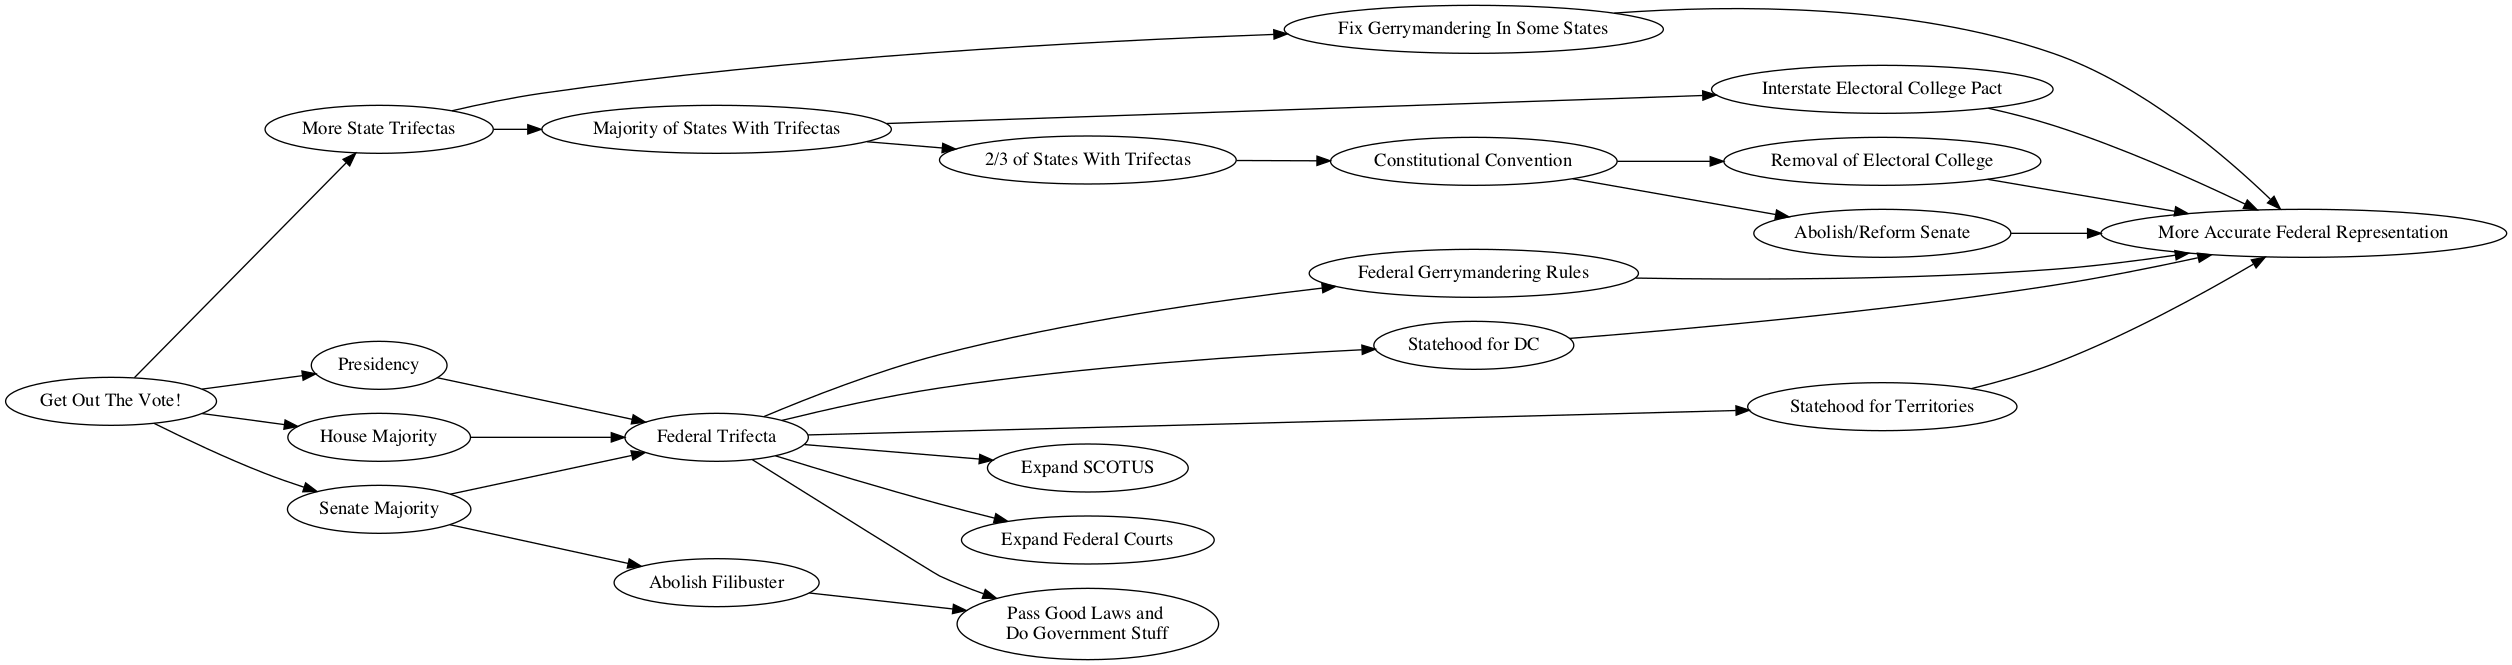
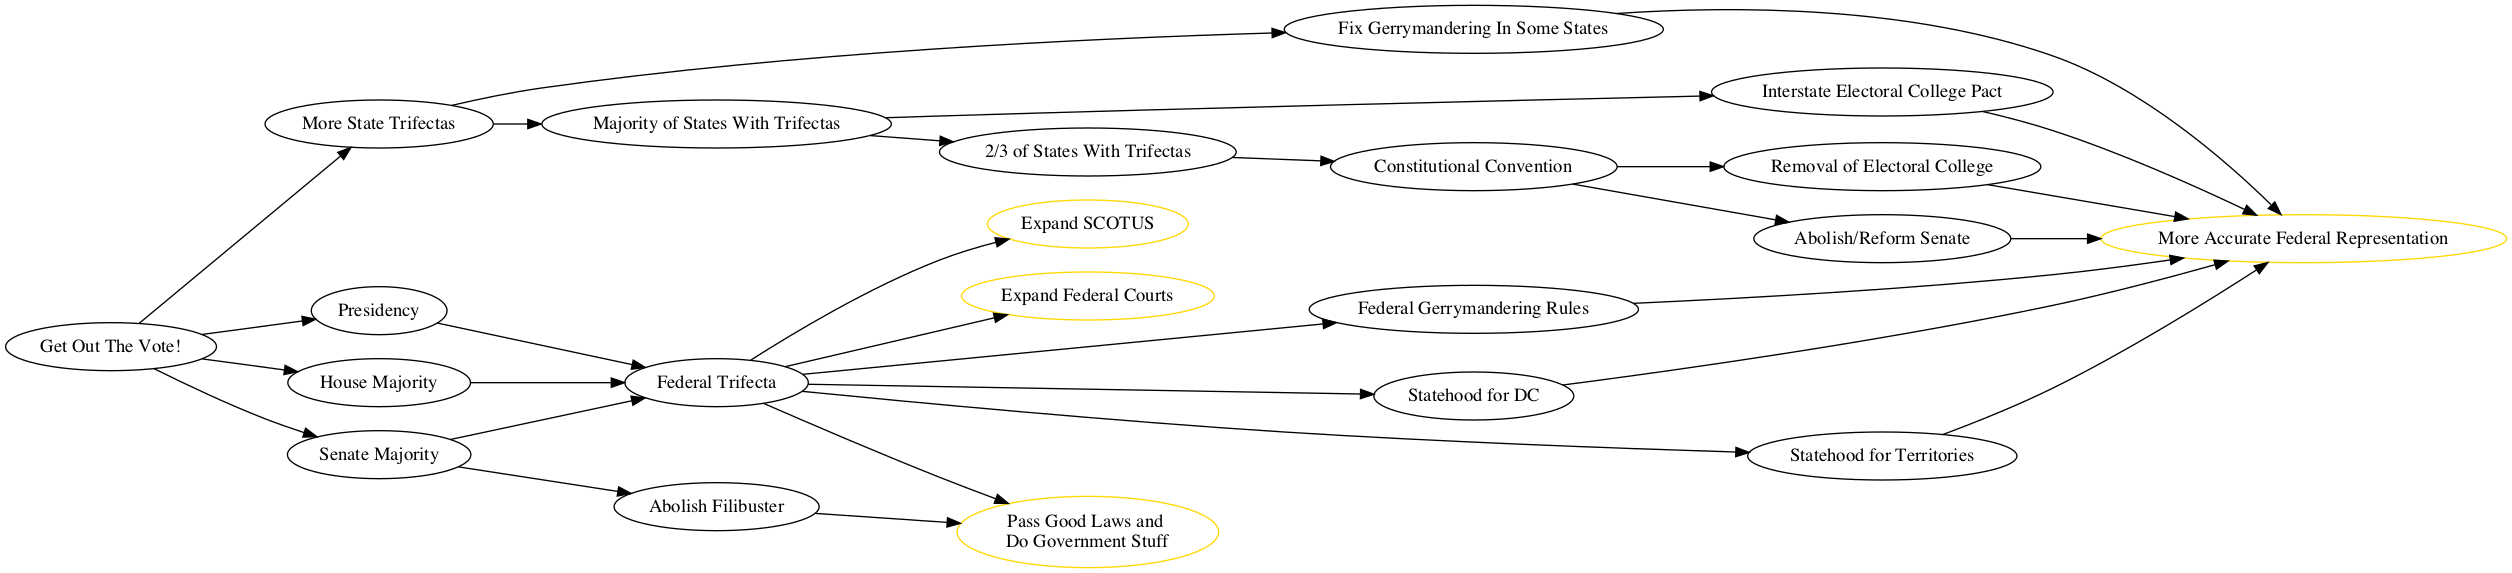
hightlight goals

diff --git a/code.rb b/code.rb
@@ -7,6 +7,15 @@ g[:truecolor => true, :bgcolor => "transparent", :rankdir => "LR"]
 
 
 # goals
+goals = [
+  representation = g.add_node( "More Accurate Federal Representation" ),
+  expand_scotus = g.add_node( "Expand SCOTUS" ),
+  eppand_federal = g.add_node( "Expand Federal Courts" ),
+  legislation = g.add_node( "Pass Good Laws and \nDo Government Stuff" ),
+  representation = g.add_node( "More Accurate Federal Representation" ),
+]
+goals.each{|g| g[:color => 'gold']}
+
 gerrymandering_fed = g.add_node("Federal Gerrymandering Rules")
 gerrymandering_state = g.add_node("Fix Gerrymandering In Some States")
 ec_pact = g.add_node("Interstate Electoral College Pact")
@@ -17,10 +26,6 @@ territories = g.add_node("Statehood for Territories")
 senate = g.add_node( "Abolish/Reform Senate" )
 filibuster = g.add_node( "Abolish Filibuster" )
 fed_trifecta = g.add_node( "Federal Trifecta" )
-expand_scotus = g.add_node( "Expand SCOTUS" )
-eppand_federal = g.add_node( "Expand Federal Courts" )
-legislation = g.add_node( "Pass Good Laws and \nDo Government Stuff" )
-representation = g.add_node( "More Accurate Federal Representation" )
 
 # dependencies
 const_convention = g.add_node( "Constitutional Convention" )
